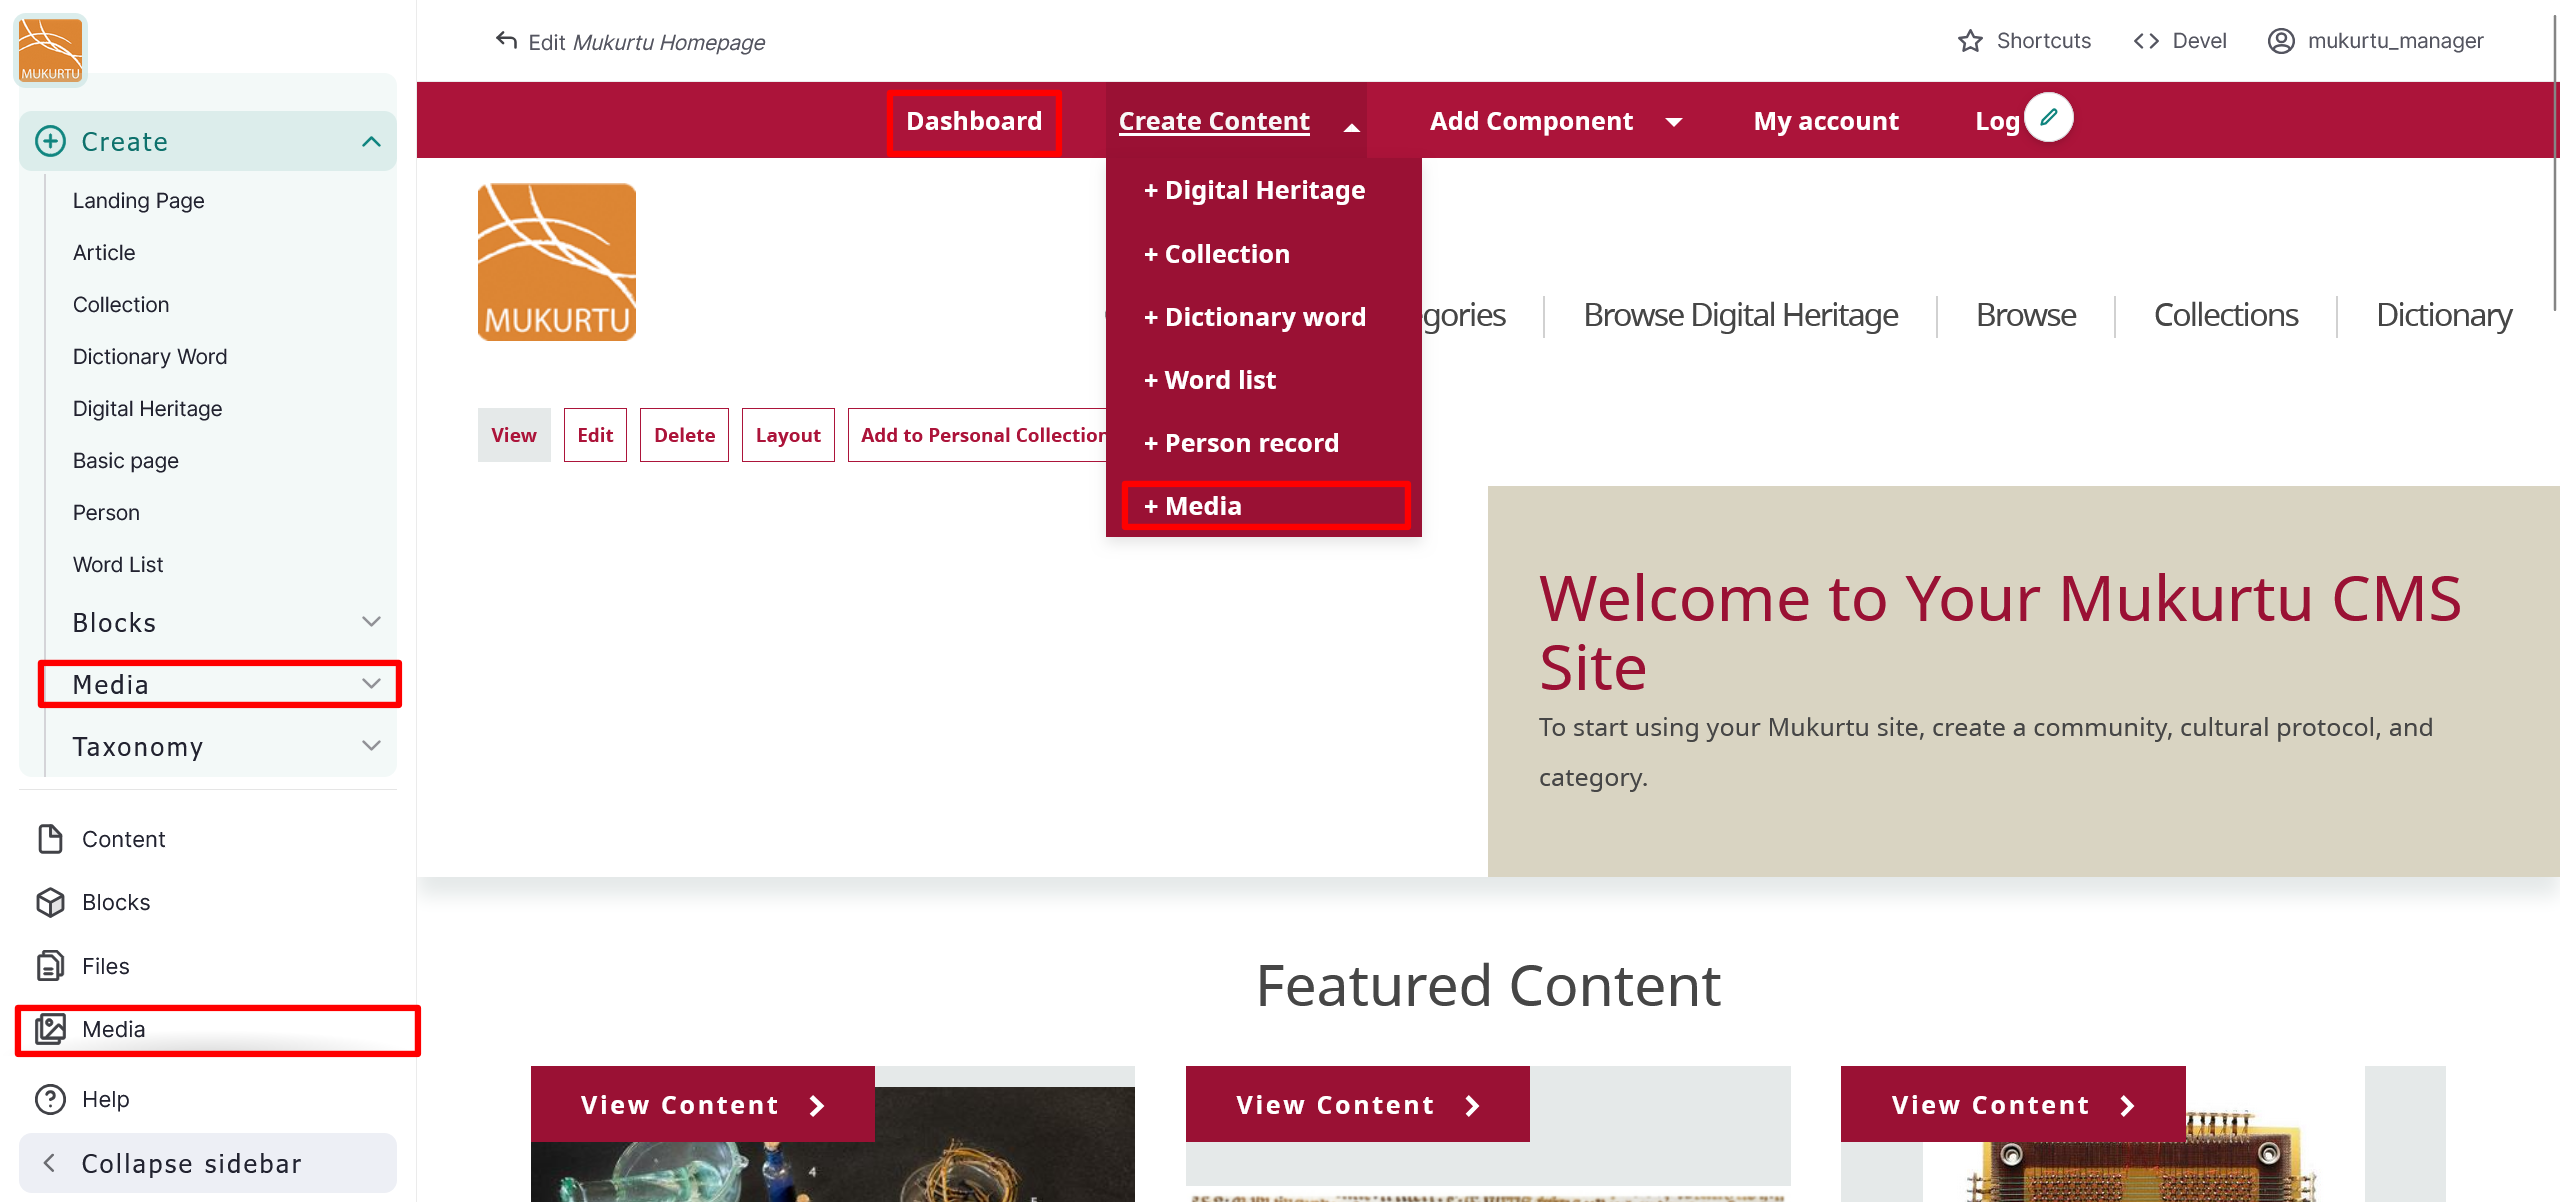
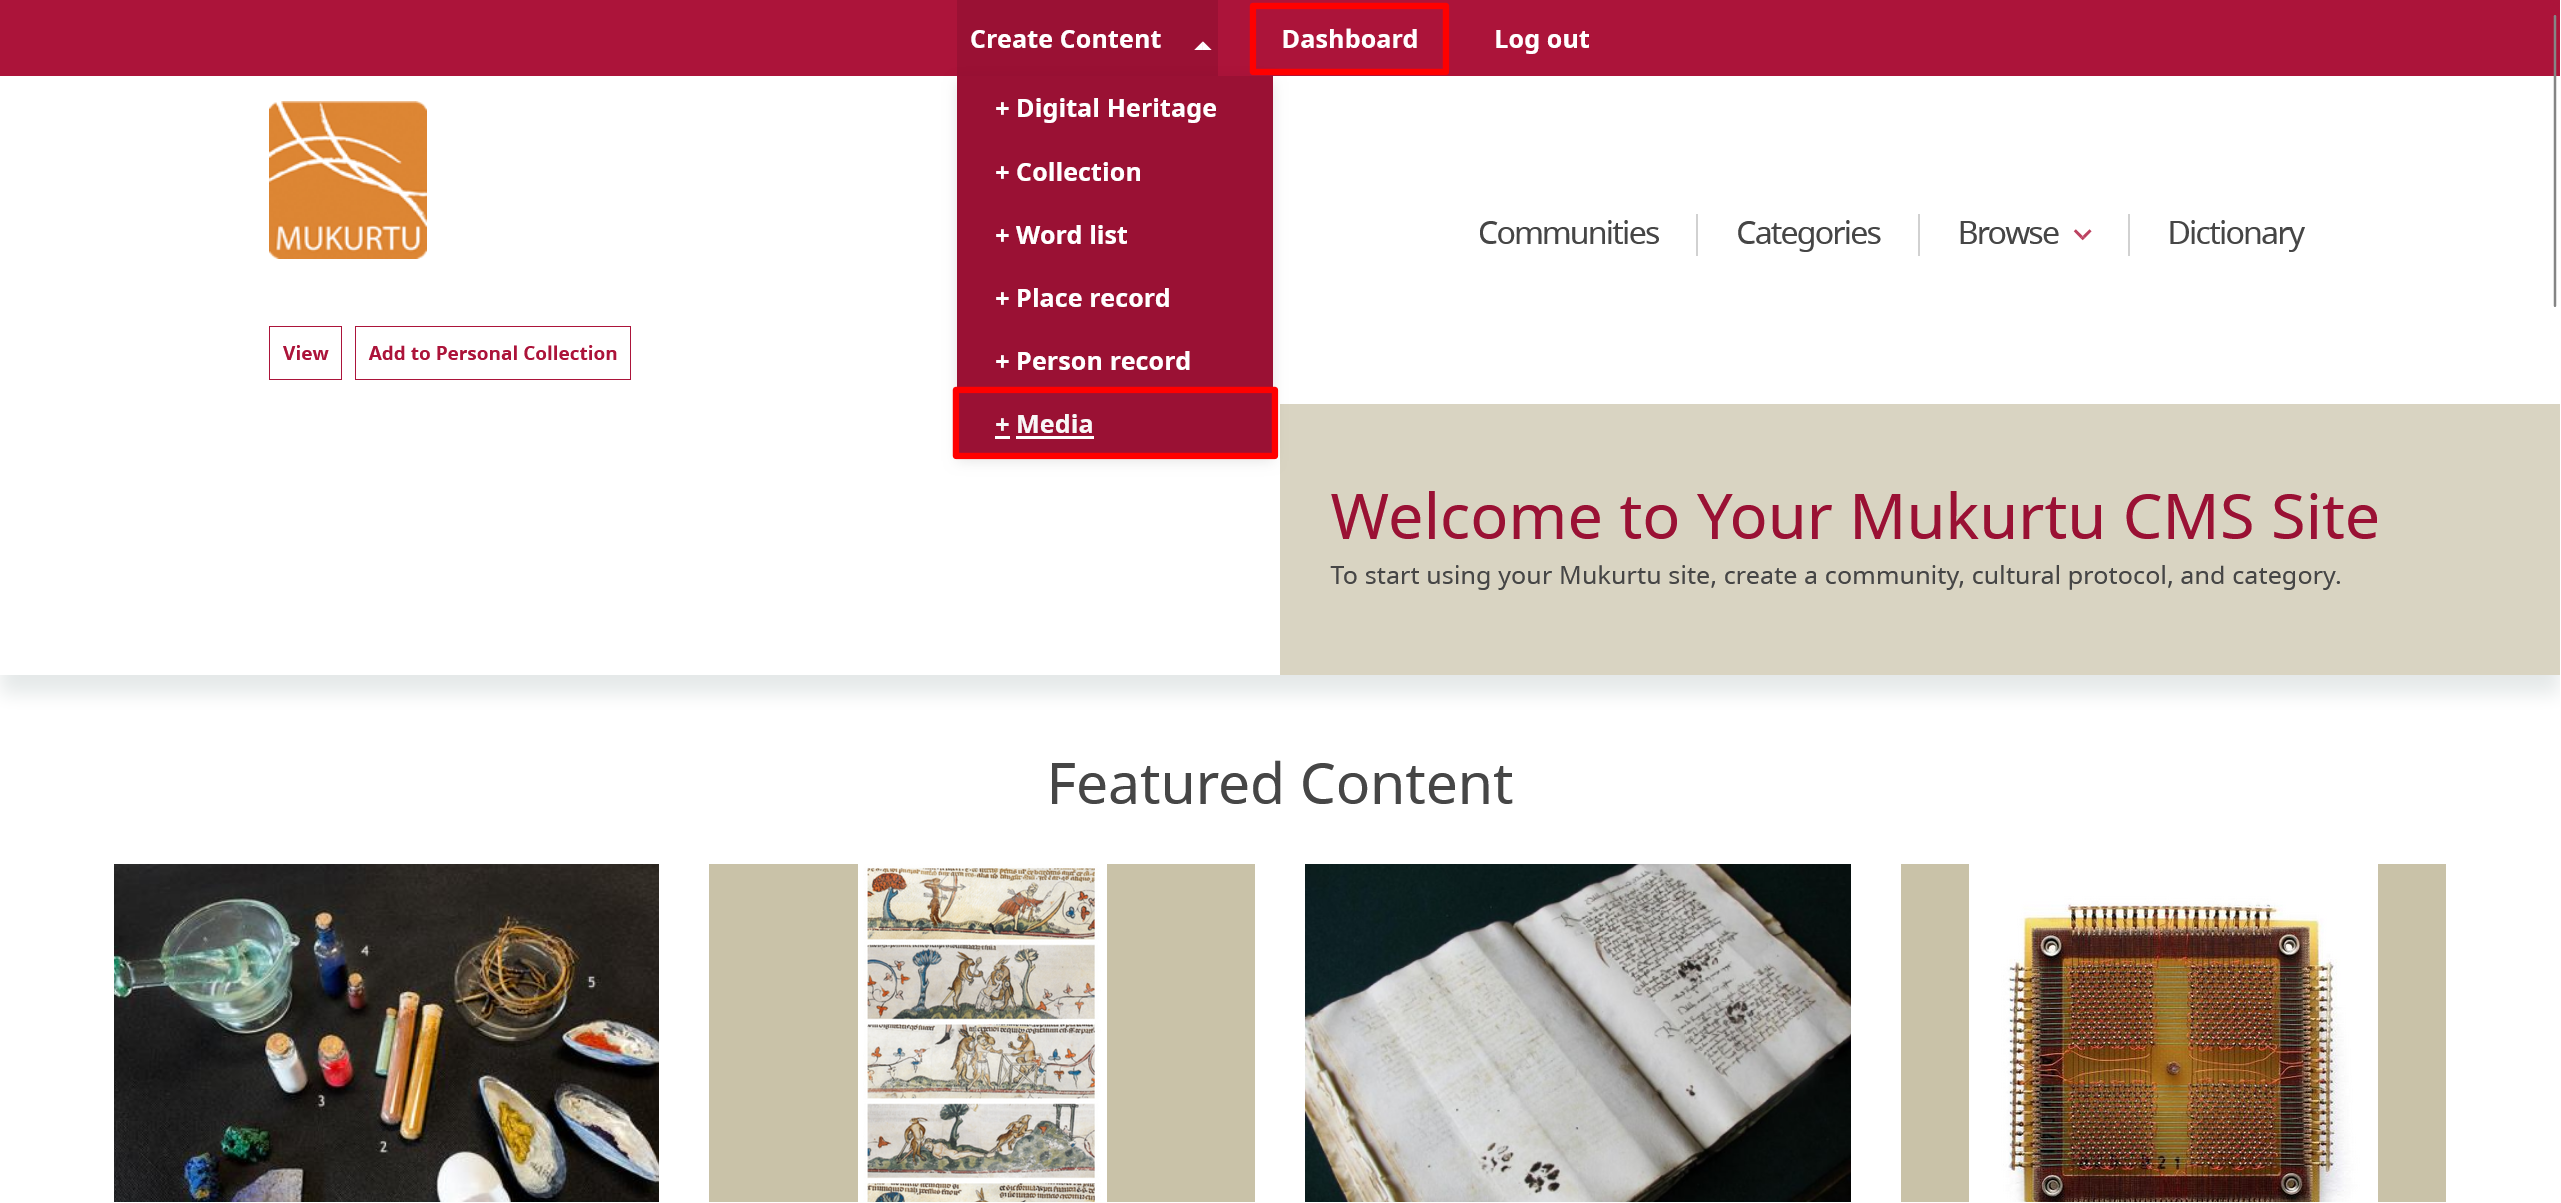
Media assets screenshots update

diff --git a/docs/media/CreateMediaAssets.md b/docs/media/CreateMediaAssets.md
@@ -25,15 +25,16 @@ This article provides a basic overview of how to create media assets, including 
 
 ## Overview 
 
-There are multiple ways to start creating a media asset: from your dashboard, from the top Create Content menu, from the left-hand sidebar Media or Create menus, or while creating content. Some elements will look different depending on where you are starting from, but the workflow is the same.
+You can create media assets from your dashboard, from the Create Content menu, or while creating content. Some elements will look different depending on where you are starting from, but the workflow is the same.
 
-![Screenshot with the different locations you can start from to add media assets highlighted](../_embeds/addmedia1a.png)
+![Screenshot with the create content menu and media assets link highlighted](../_embeds/addmedia1a.png)
+
+![Screenshot with the add media link in the dashboard highlighted.](../_embeds/addmedia1a1.png)
 
 To start adding media:
 
 - When adding media from your dashboard, select "Add Media". 
 - When adding media from your top Create Content menu, select **+ Media**. 
-- When adding media from your left-hand sidebar, you can use either the **Media** icon or the Create menu, represented by the **+** icon.  
 - When adding media from content, selecting "Add Media" in the *Media Assets* field allows you to add different media types. 
 	- When adding media from content, the media type may be restricted by the type of content that is being created.
 
